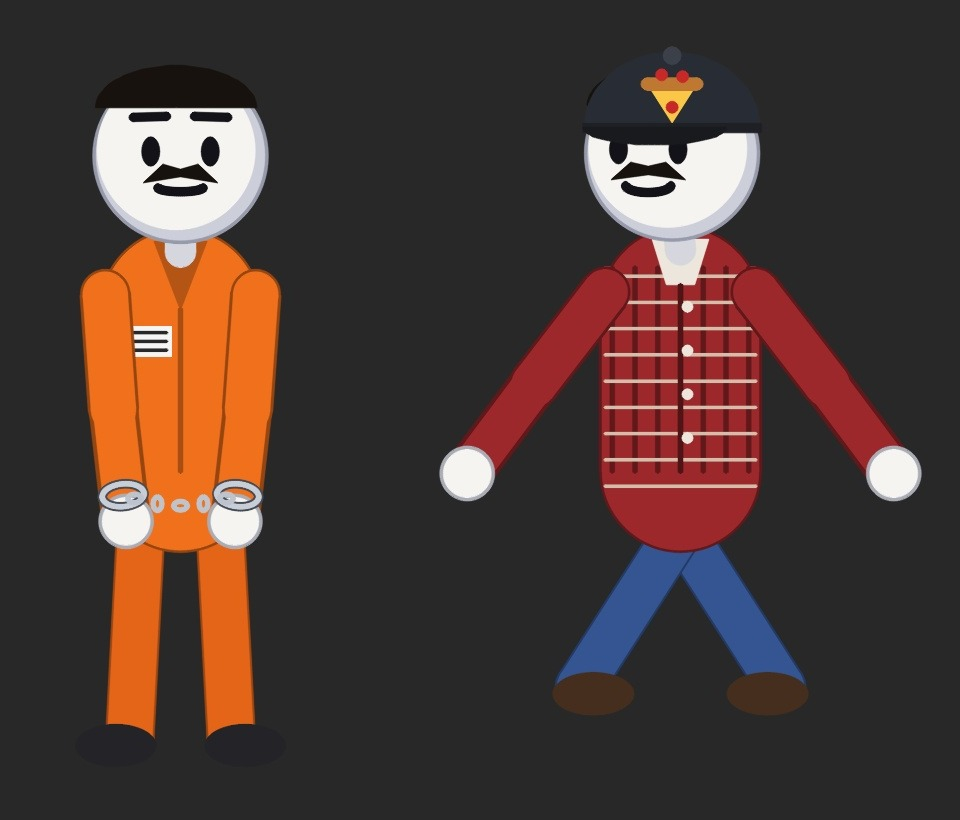
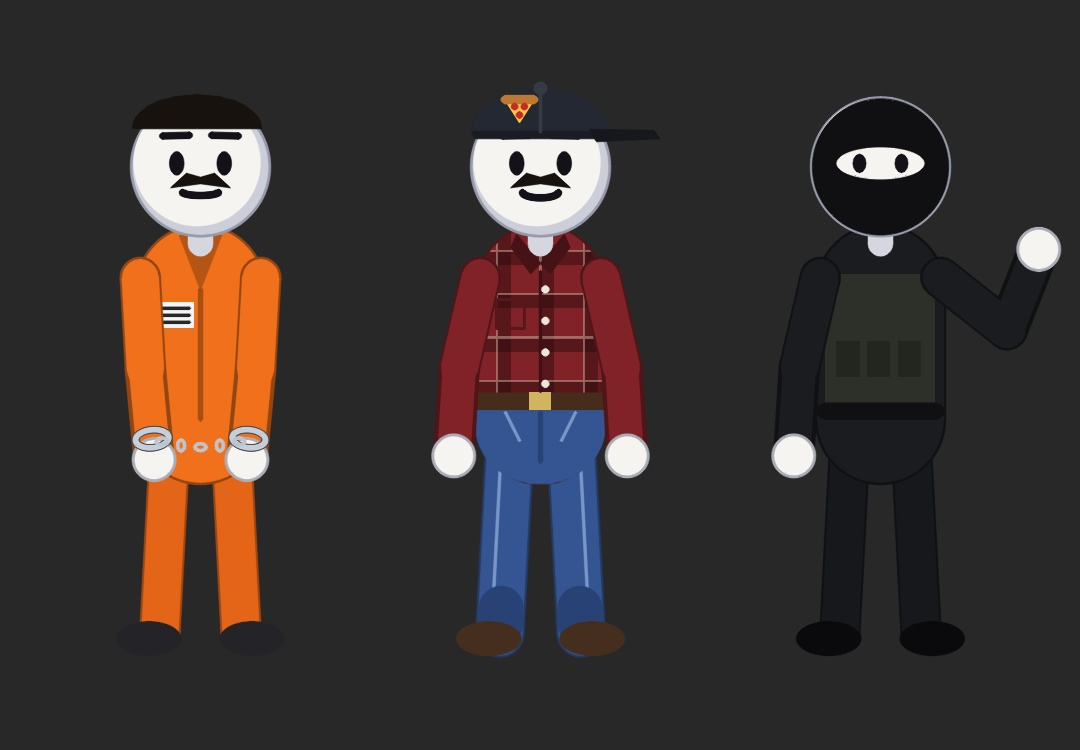
Chapo short: realistic rescue (roadblock, SUVs, comando), sideways cap, refined plaid shirt and jeans
Claude-Session: https://claude.ai/code/session_01WDrQiuAKGjVZNTyo2ws8iR

diff --git a/youtube-shorts/chapo/lib.py b/youtube-shorts/chapo/lib.py
@@ -198,11 +198,12 @@ OUTF = {'militar': dict(top=(92, 104, 64), pants=(72, 82, 52), shoe=(26, 26, 26)
         'bata': dict(top=(236, 239, 244), pants=(54, 58, 70), shoe=(20, 20, 24)),
         'elegante': dict(top=(40, 78, 178), pants=(24, 28, 48), shoe=(14, 14, 18)),
         'reo': dict(top=(240, 112, 28), pants=(228, 100, 24), shoe=(36, 36, 40)),
-        'civil': dict(top=(156, 40, 44), pants=(52, 84, 146), shoe=(70, 46, 30))}
+        'civil': dict(top=(128, 34, 40), pants=(52, 84, 146), shoe=(70, 46, 30)),
+        'comando': dict(top=(26, 28, 32), pants=(22, 24, 28), shoe=(10, 10, 12))}
 SKIN = (246, 244, 240)
 def dark(c, k=.6): return tuple(int(v * k) for v in c)
 
-def character(fr, kind, x, fy, hgt, t, armR=('reposo',), armL=('reposo',), look=(0., 0.), frown=.3, beret=False, smile=0., sash=False, mustache=False, run=0., cuffs=False, cap=False):
+def character(fr, kind, x, fy, hgt, t, armR=('reposo',), armL=('reposo',), look=(0., 0.), frown=.3, beret=False, smile=0., sash=False, mustache=False, run=0., cuffs=False, cap=False, mask=False):
     hands = {}
     u = hgt / 8.; o = OUTF[kind]; br = math.sin(t * 2.2) * u * .05
     hipy = fy - 3.3 * u; shy = fy - 5.75 * u + br
@@ -210,10 +211,21 @@ def character(fr, kind, x, fy, hgt, t, armR=('reposo',), armL=('reposo',), look=
     lw = u * .5
     for sd in (-1, 1):
         hp = A(x + sd * .42 * u, hipy); ft = A(x + sd * .58 * u, fy - .25 * u)
-        if run:
-            ang = math.sin(t * run + (sd > 0) * math.pi) * .55; L_ = 3.05 * u
-            ft = hp + A(math.sin(ang) * L_, math.cos(ang) * L_ - abs(math.sin(ang)) * .3 * u)
-        line(fr, hp, ft, dark(o['pants'], .7), lw + 4); line(fr, hp, ft, o['pants'], lw)
+        pc_ = o['pants']; lwp = lw * (1.25 if kind == 'civil' else 1.)
+        if run:  # pierna en dos tramos: muslo y espinilla, la rodilla se dobla al correr
+            ph_ = t * run + (sd > 0) * math.pi; th = math.sin(ph_) * .6; bend = max(0., -math.cos(ph_)) * 1.1 + .15
+            dirn = -1 if look[0] < 0 else 1; kn_ = hp + A(math.sin(th), math.cos(th)) * 1.55 * u; sa = th - bend * dirn
+            ft = kn_ + A(math.sin(sa), math.cos(sa)) * 1.55 * u
+            segs = [(hp, kn_), (kn_, ft)]
+        else:
+            kn_ = (hp + ft) / 2; segs = [(hp, ft)]
+        for a_, b_ in segs: line(fr, a_, b_, dark(pc_, .7), lwp + 4)
+        for a_, b_ in segs: line(fr, a_, b_, pc_, lwp)
+        if run: circ(fr, kn_, lwp / 2, pc_)
+        if kind == 'civil':  # mezclilla: costura clara y bastilla doblada
+            for a_, b_ in segs: line(fr, A(*a_) + A(sd * .12 * u, 0), A(*b_) + A(sd * .12 * u, 0), (120, 150, 200), 2)
+            dv = A(*segs[-1][1]) - A(*segs[-1][0]); dv /= max(1e-6, np.linalg.norm(dv)); hb = A(*ft) - dv * .35 * u
+            line(fr, hb, A(*ft) - dv * .12 * u, (40, 66, 118), lwp)
         cv2.ellipse(fr, P8(ft + A(sd * .16 * u, .08 * u)), (int(.46 * u * 8), int(.24 * u * 8)), 0, 0, 360, o['shoe'], -1, cv2.LINE_AA, 3)
     top = o['top']; ta = A(x, shy + .55 * u); tb = A(x, hipy)
     if kind == 'bata':
@@ -250,12 +262,35 @@ def character(fr, kind, x, fy, hgt, t, armR=('reposo',), armL=('reposo',), look=
         for k in range(3): line(fr, (x - .56 * u, shy + (.82 + k * .1) * u), (x - .16 * u, shy + (.82 + k * .1) * u), (40, 40, 40), 2)
         line(fr, (x, shy + .55 * u), (x, hipy), dark(top, .7), 3)
     elif kind == 'civil':
-        cv2.rectangle(fr, (int(x - .86 * u), int(shy + .1 * u)), (int(x + .86 * u), int(hipy)), top, -1)
-        for k in range(-3, 4): line(fr, (x + k * .26 * u, shy + .1 * u), (x + k * .26 * u, hipy), dark(top, .62), 3)
-        for k in range(0, 9): line(fr, (x - .86 * u, shy + (.2 + k * .3) * u), (x + .86 * u, shy + (.2 + k * .3) * u), (210, 190, 170), 2)
-        poly(fr, [(x - .32 * u, shy - .22 * u), (x + .32 * u, shy - .22 * u), (x + .16 * u, shy + .3 * u), (x - .16 * u, shy + .3 * u)], (236, 230, 220))
-        line(fr, (x, shy + .3 * u), (x, hipy), dark(top, .5), 3)
-        for i in range(4): circ(fr, (x + .08 * u, shy + (.55 + i * .5) * u), .06 * u, (236, 230, 220))
+        x0_, y0_ = int(x - 1.1 * u), int(shy - .6 * u); x1_, y1_ = int(x + 1.1 * u), int(hipy + 1.2 * u)
+        x0_, y0_ = max(0, x0_), max(0, y0_); x1_, y1_ = min(fr.shape[1], x1_), min(fr.shape[0], y1_)
+        if x1_ > x0_ and y1_ > y0_:
+            mk = np.zeros((y1_ - y0_, x1_ - x0_), np.uint8)
+            cv2.line(mk, (int(ta[0] - x0_), int(ta[1] - y0_)), (int(tb[0] - x0_), int(tb[1] - y0_)), 255, max(1, int(1.78 * u)), cv2.LINE_AA)
+            m_ = (mk.astype(np.float32) / 255.)[:, :, None]
+            yy_, xx_ = np.mgrid[y0_:y1_, x0_:x1_].astype(np.float32); per = .62 * u
+            band = ((((xx_ - x) % per) < .2 * u) | (((yy_ - shy) % per) < .2 * u)).astype(np.float32)
+            both = ((((xx_ - x) % per) < .2 * u) & (((yy_ - shy) % per) < .2 * u)).astype(np.float32)
+            thin = ((np.abs(((xx_ - x + per * .5) % per) - per * .5) < 1.2) | (np.abs(((yy_ - shy + per * .5) % per) - per * .5) < 1.2)).astype(np.float32)
+            pat = np.ones_like(xx_)[:, :, None] * np.array(top, np.float32)
+            pat = pat * (1 - .32 * band[:, :, None]) * (1 - .25 * both[:, :, None])
+            pat = pat * (1 - .45 * thin[:, :, None]) + np.array([214, 196, 168], np.float32) * .45 * thin[:, :, None]
+            roi = fr[y0_:y1_, x0_:x1_].astype(np.float32); fr[y0_:y1_, x0_:x1_] = to8(roi * (1 - m_) + pat * m_)
+        poly(fr, [(x - .34 * u, shy - .24 * u), (x, shy + .18 * u), (x - .14 * u, shy + .32 * u), (x - .42 * u, shy - .05 * u)], dark(top, .55))   # cuello
+        poly(fr, [(x + .34 * u, shy - .24 * u), (x, shy + .18 * u), (x + .14 * u, shy + .32 * u), (x + .42 * u, shy - .05 * u)], dark(top, .55))
+        cv2.rectangle(fr, (int(x - .62 * u), int(shy + .7 * u)), (int(x - .22 * u), int(shy + 1.12 * u)), dark(top, .7), 2)        # bolsillo
+        cv2.ellipse(fr, P8((x, hipy + .1 * u)), (int(.92 * u * 8), int(.82 * u * 8)), 0, 0, 180, (52, 84, 146), -1, cv2.LINE_AA, 3)
+        poly(fr, [(x - .92 * u, hipy - .3 * u), (x + .92 * u, hipy - .3 * u), (x + .92 * u, hipy + .12 * u), (x - .92 * u, hipy + .12 * u)], (52, 84, 146))
+        line(fr, (x, hipy - .1 * u), (x, hipy + .6 * u), (40, 66, 118), 3)
+        for sd2 in (-1, 1): line(fr, (x + sd2 * .5 * u, hipy - .1 * u), (x + sd2 * .3 * u, hipy + .3 * u), (120, 150, 200), 2)
+        line(fr, (x - .92 * u, hipy - .26 * u), (x + .92 * u, hipy - .26 * u), (70, 44, 26), .22 * u)
+        cv2.rectangle(fr, (int(x - .15 * u), int(hipy - .38 * u)), (int(x + .15 * u), int(hipy - .14 * u)), (210, 180, 96), -1)
+        line(fr, (x, shy + .3 * u), (x, hipy - .4 * u), dark(top, .5), 2)
+        for i in range(4): circ(fr, (x + .07 * u, shy + (.55 + i * .45) * u), .05 * u, (236, 230, 220))
+    elif kind == 'comando':
+        cv2.rectangle(fr, (int(x - .78 * u), int(shy + .35 * u)), (int(x + .78 * u), int(hipy - .2 * u)), (44, 48, 40), -1)      # chaleco
+        for k in range(3): cv2.rectangle(fr, (int(x - .62 * u + k * .44 * u), int(shy + 1.3 * u)), (int(x - .3 * u + k * .44 * u), int(shy + 1.8 * u)), (34, 38, 30), -1)
+        line(fr, (x - .8 * u, hipy - .12 * u), (x + .8 * u, hipy - .12 * u), (16, 16, 18), .22 * u)
     elif kind == 'elegante':
         poly(fr, [(x - .3 * u, shy - .22 * u), (x + .3 * u, shy - .22 * u), (x, shy + .7 * u)], (240, 240, 244))
         line(fr, (x, shy + .7 * u), (x, hipy + .2 * u), (232, 190, 80), 3)
@@ -298,17 +333,21 @@ def character(fr, kind, x, fy, hgt, t, armR=('reposo',), armL=('reposo',), look=
         mc = fc + A(0, .2 * u)
         poly(fr, [(mc[0] - .42 * u, mc[1] + .1 * u), (mc[0] - .2 * u, mc[1] - .1 * u), (mc[0], mc[1] - .05 * u), (mc[0] + .2 * u, mc[1] - .1 * u), (mc[0] + .42 * u, mc[1] + .1 * u), (mc[0], mc[1] + .04 * u)], (24, 18, 14))
         cv2.ellipse(fr, P8(head + A(-.05 * u, -.55 * u)), (int(.92 * u * 8), int(.48 * u * 8)), 0, 180, 360, (24, 18, 14), -1, cv2.LINE_AA, 3)
-    if cap:  # gorra con una pizza pequeña al centro
-        cc_ = (40, 44, 52)
-        cv2.ellipse(fr, P8(head + A(0, -.3 * u)), (int(1.0 * u * 8), int(.86 * u * 8)), 0, 180, 360, cc_, -1, cv2.LINE_AA, 3)
-        poly(fr, [(head[0] - 1.02 * u, head[1] - .34 * u), (head[0] + 1.02 * u, head[1] - .34 * u), (head[0] + 1.02 * u, head[1] - .24 * u), (head[0] - 1.02 * u, head[1] - .24 * u)], (30, 32, 38))
-        bd = 1 if look[0] >= 0 else -1
-        cv2.ellipse(fr, P8(head + A(bd * .2 * u, -.3 * u)), (int(.82 * u * 8), int(.2 * u * 8)), 0, 0, 180, (24, 26, 30), -1, cv2.LINE_AA, 3)
-        circ(fr, head + A(0, -1.12 * u), .1 * u, (60, 64, 72))
-        pc = head + A(0, -.58 * u); r_ = .27 * u
-        poly(fr, [(pc[0] - r_, pc[1] - r_ * .75), (pc[0] + r_, pc[1] - r_ * .75), (pc[0], pc[1] + r_ * .85)], (250, 200, 70))       # queso
-        line(fr, (pc[0] - r_ * 1.05, pc[1] - r_ * .8), (pc[0] + r_ * 1.05, pc[1] - r_ * .8), (190, 120, 50), .14 * u)                  # orilla
-        for (ox, oy) in [(-.12, -.32), (.12, -.3), (0, .05)]: circ(fr, pc + A(ox * u, oy * u), .065 * u, (200, 40, 40))           # pepperoni
+    if cap:  # gorra de béisbol puesta de lado (visera hacia la derecha), arriba de las cejas
+        cc_ = (36, 40, 50); cy_ = head[1] - .5 * u
+        cv2.ellipse(fr, P8((head[0], cy_)), (int(.98 * u * 8), int(.62 * u * 8)), 0, 180, 360, cc_, -1, cv2.LINE_AA, 3)
+        poly(fr, [(head[0] - .98 * u, cy_), (head[0] + .98 * u, cy_), (head[0] + .94 * u, cy_ + .1 * u), (head[0] - .94 * u, cy_ + .1 * u)], (26, 28, 36))
+        poly(fr, [(head[0] + .7 * u, cy_ - .04 * u), (head[0] + 1.62 * u, cy_ - .02 * u), (head[0] + 1.7 * u, cy_ + .1 * u), (head[0] + .8 * u, cy_ + .14 * u)], (22, 24, 30))  # visera de lado
+        line(fr, (head[0], cy_ - .6 * u), (head[0], cy_), (54, 58, 68), 2)
+        circ(fr, (head[0], cy_ - .62 * u), .09 * u, (54, 58, 68))
+        pc = A(head[0] - .3 * u, cy_ - .3 * u); r_ = .2 * u
+        poly(fr, [(pc[0] - r_, pc[1] - r_ * .75), (pc[0] + r_, pc[1] - r_ * .75), (pc[0], pc[1] + r_ * .85)], (250, 200, 70))       # pizza
+        line(fr, (pc[0] - r_ * 1.05, pc[1] - r_ * .8), (pc[0] + r_ * 1.05, pc[1] - r_ * .8), (190, 120, 50), .1 * u)
+        for (ox, oy) in [(-.07, -.06), (.07, -.06), (0, .06)]: circ(fr, pc + A(ox * u, oy * u), .045 * u, (200, 40, 40))
+    if mask:  # pasamontañas negro con abertura en los ojos
+        circ(fr, head, .97 * u, (16, 16, 18))
+        cv2.ellipse(fr, P8(fc + A(0, -.05 * u)), (int(.62 * u * 8), int(.22 * u * 8)), 0, 0, 360, SKIN, -1, cv2.LINE_AA, 3)
+        for sd in (-1, 1): cv2.ellipse(fr, P8(fc + A(sd * .3 * u, -.05 * u)), (int(.09 * u * 8), int(.13 * u * 8)), 0, 0, 360, (18, 18, 24), -1, cv2.LINE_AA, 3)
     if beret:
         cv2.ellipse(fr, P8(head + A(-.1 * u, -.74 * u)), (int(1.08 * u * 8), int(.44 * u * 8)), -12, 0, 360, (40, 66, 44), -1, cv2.LINE_AA, 3)
         cv2.ellipse(fr, P8(head + A(.05 * u, -.52 * u)), (int(.98 * u * 8), int(.16 * u * 8)), -6, 0, 360, (26, 44, 30), -1, cv2.LINE_AA, 3)

diff --git a/youtube-shorts/chapo/chapo.py b/youtube-shorts/chapo/chapo.py
@@ -15,8 +15,8 @@ SUBS = [
  (16.55, 19.40, 1500, "obligaría a *Washington* a revisar su caso."), (19.75, 21.60, 1500, "Las cortes *estallarían*"), (21.60, 23.90, 1500, "en un debate *sin precedentes*."),
  (24.30, 25.70, 1440, "Segundo…"), (25.72, 27.50, 1440, "el *caos penitenciario*."), (27.60, 29.20, 1440, "¿Dónde lo *meterían*?"),
  (29.35, 31.00, 1440, "*El Altiplano* o *Puente Grande*"), (31.00, 33.40, 1440, "revivirían los *fantasmas* de sus fugas."), (33.55, 36.80, 1440, "La *alerta roja* se activaría al instante."),
- (37.40, 38.95, 1480, "Tercero…"), (39.00, 40.70, 1480, "el *gran escape*."), (40.90, 43.00, 1480, "En un traslado *nocturno*,"), (43.00, 44.40, 1480, "la *seguridad se rompe*…"),
- (44.40, 45.75, 1480, "y *desaparece de nuevo*,"), (45.78, 47.40, 1480, "con su ropa de siempre:"), (47.40, 49.90, 1480, "*camisa sencilla* y *vaqueros*."),
+ (37.40, 38.95, 960, "Tercero…"), (39.00, 40.70, 960, "el *gran escape*."), (40.90, 43.00, 960, "En un traslado *nocturno*,"), (43.00, 44.40, 960, "la *seguridad se rompe*…"),
+ (44.40, 45.75, 960, "y *desaparece de nuevo*,"), (45.78, 47.40, 960, "con su ropa de siempre:"), (47.40, 49.90, 960, "*camisa sencilla* y *vaqueros*."),
  (50.40, 53.60, 1480, "Una *pesadilla diplomática* para dos naciones…"), (53.70, 56.30, 1480, "¿Volvería a mandar desde las *sombras*?"),
  (56.40, 58.40, 1480, "¡*Dale like* y *sígueme*"), (58.40, 61.00, 1480, "para más historias!"),
 ]
@@ -24,7 +24,7 @@ EMOJIS = [
  (2.6, 4.6, '🇲🇽', 860, 900, 150, 'pop'), (7.3, 9.6, '⚠', 200, 900, 150, 'late'),
  (14.4, 17.0, '📄', 860, 1180, 140, 'sacude'), (19.8, 23.8, '⚖', 200, 1180, 150, 'flota'),
  (25.8, 28.2, '🏛', 880, 1250, 140, 'pop'), (33.7, 36.8, '🚨', 200, 1250, 150, 'late'),
- (43.3, 45.6, '🔥', 860, 1250, 150, 'late'), (44.6, 47.3, '🏃', 200, 1250, 150, 'cae'),
+ (43.3, 45.6, '🔥', 880, 760, 150, 'late'), (44.6, 47.3, '🏃', 200, 760, 150, 'cae'),
  (53.8, 61, '💬', 180, 380, 140, 'late'), (56.5, 61, '👍', 540, 300, 150, 'pop'), (57.7, 61, '🔔', 900, 380, 140, 'sacude'),
 ]
 
@@ -220,28 +220,82 @@ class C4:
         s.puff = glow_sprite(140, (110, 96, 90)); s.flame = glow_sprite(90, (255, 150, 50))
         s.stamp = N.stamp('LIBRE', (255, 59, 42), w=480, px=110)
         s.dust = Dust(40, (40, 300, 1040, 1600), (255, 170, 90), 4, .5)
+    def suv(s, fr, x, y, sc, t, door=0., lights=True):
+        # camioneta negra (vista lateral, frente a la derecha)
+        w, h = 420 * sc, 150 * sc
+        if lights:
+            lay = np.zeros((H // 4, W // 4, 3), np.float32); hx, hy = (x + w) / 4, (y - h * .45) / 4
+            cv2.fillPoly(lay, [np.array([(hx, hy), (hx + 260 * sc, hy - 40 * sc), (hx + 260 * sc, hy + 50 * sc)], np.int32)], (255, 240, 200))
+            fr[:] = np.clip(fr + cv2.resize(cv2.GaussianBlur(lay, (0, 0), 5), (W, H)) * .35, 0, 255).astype(np.uint8)
+        poly(fr, [(x, y - h * .25), (x + w * .06, y - h), (x + w * .72, y - h), (x + w * .86, y - h * .62), (x + w, y - h * .55), (x + w, y - h * .05), (x, y - h * .05)], (16, 17, 20))
+        poly(fr, [(x + w * .1, y - h * .92), (x + w * .38, y - h * .92), (x + w * .38, y - h * .62), (x + w * .1, y - h * .62)], (40, 56, 72))
+        poly(fr, [(x + w * .42, y - h * .92), (x + w * .68, y - h * .92), (x + w * .8, y - h * .62), (x + w * .42, y - h * .62)], (40, 56, 72))
+        line(fr, (x + w * .02, y - h * .4), (x + w, y - h * .4), (44, 46, 52), 3)
+        if door > 0:  # puerta trasera abierta
+            dx_ = door * w * .22
+            poly(fr, [(x + w * .4, y - h * .92), (x + w * .4 - dx_, y - h * 1.0), (x + w * .4 - dx_, y - h * .12), (x + w * .4, y - h * .05)], (30, 32, 36))
+            poly(fr, [(x + w * .2, y - h * .9), (x + w * .4, y - h * .9), (x + w * .4, y - h * .1), (x + w * .2, y - h * .1)], (6, 6, 8))
+        for wx in (x + w * .2, x + w * .8):
+            circ(fr, (wx, y), 46 * sc, (8, 8, 10)); circ(fr, (wx, y), 22 * sc, (90, 94, 100))
+        blit(fr, glow_sprite(40, (255, 240, 200)), x + w, y - h * .45, .9 if lights else 0, sc, add=True)
+        blit(fr, glow_sprite(30, (255, 30, 20)), x + 4, y - h * .45, .8, sc, add=True)
+    def truck_fire(s, fr, t, k):
+        # narcobloqueo: tráiler atravesado e incendiado cerrando la carretera
+        x, y = 560, 1235
+        poly(fr, [(x - 330, y), (x - 330, y - 120), (x + 140, y - 120), (x + 140, y)], (34, 28, 28))
+        poly(fr, [(x + 150, y), (x + 150, y - 100), (x + 230, y - 100), (x + 270, y - 60), (x + 270, y)], (30, 26, 26))
+        for wx in (x - 280, x - 200, x + 80, x + 210): circ(fr, (wx, y), 26, (10, 10, 12))
+        for i in range(7):
+            fl = .7 + .3 * math.sin(t * 13 + i * 1.7)
+            blit(fr, s.flame, x - 300 + i * 70, y - 110, k * fl, 1.0 + .5 * fl, add=True)
+        for i in range(10):
+            f = (i / 10. + t * .07) % 1; blit(fr, s.puff, x - 250 + (i % 5) * 110 + f * 120, y - 120 - f * 700, k * min(1, f * 5) * (1 - f) * .55, 1 + f * 2.6)
     def draw(s, fr, t, d):
-        for i in range(18):
-            f = (i / 18. + t * .05) % 1; blit(fr, s.puff, 300 + (i % 3) * 220 + f * 160, 1080 - f * 800, min(1, f * 5) * (1 - f) * .4, .9 + f * 2.4)
+        for i in range(12):
+            f = (i / 12. + t * .05) % 1; blit(fr, s.puff, 300 + (i % 3) * 220 + f * 160, 1080 - f * 800, min(1, f * 5) * (1 - f) * .3, .9 + f * 2.4)
         on = (t * 2.5) % 1 < .5
         for i, (x, y) in enumerate(s.lights): blit(fr, glow_sprite(70, (255, 40, 40) if on ^ (i % 2) else (40, 90, 255)), x, y, .9, add=True)
-        brk = ss(6.0, 6.4, t)
-        if brk > 0 and t < 8: blit(fr, s.flame, 600, 1150, brk * (1 - ss(6.6, 8, t)), 2.4, add=True)
+        T1, T2, T3, T4, T5, TC = 3.6, 4.6, 6.2, 7.3, 8.0, d - 2.6   # bloqueo · llegan camionetas · corre · sube · arrancan · ropa nueva
+        kb = ss(T1, T1 + .5, t)
+        if kb > 0 and t < TC: s.truck_fire(fr, t, kb)
+        if T1 <= t < T1 + .4: fr[:] = np.clip(fr.astype(np.float32) + 90 * (1 - (t - T1) / .4), 0, 255).astype(np.uint8)   # destello
         s.dust.draw(fr, t)
-        if t < 6.3:   # traslado: con uniforme y esposas
-            cv2.ellipse(fr, (560, 1494), (150, 20), 0, 0, 360, (16, 12, 10), -1, cv2.LINE_AA)
-            character(fr, 'reo', 560, 1490, 440, t, armR=('apunta', (600, 1290), .75), armL=('apunta', (520, 1290), .75), look=(-.6, -.1), frown=-.2, mustache=True, cuffs=True)
-        else:         # escape: camisa a cuadros y vaqueros, corriendo hacia la oscuridad
-            u = ss(6.3, 12.5, t); x = lerp(620, 180, u); sc = lerp(1, .62, u); fy = lerp(1500, 1250, u)
+        # tres camionetas negras llegan desde la izquierda, se detienen y luego arrancan juntas
+        if T2 <= t < T5 + 1.8:
+            for j, (stop, yy, sc) in enumerate([(30, 1450, 1.1), (-330, 1380, .85), (-610, 1330, .7)][::-1]):
+                tin = T2 + (2 - j) * .25
+                xin = lerp(-900, stop, eOut((t - tin) / 1.0)) if t >= tin else -2000
+                xout = lerp(0, 1800, ss(T5, T5 + 1.6, t) ** 2)
+                door = ss(T2 + 1.2, T2 + 1.5, t) * (1 - ss(T4 - .2, T4 + .2, t)) if j == 2 else 0
+                s.suv(fr, xin + xout, yy, sc, t, door)
+            # comando encapuchado junto a la puerta
+            if T2 + 1.3 <= t < T4 + .1:
+                kk = ss(T2 + 1.3, T2 + 1.7, t); cx_ = lerp(-100, 120, kk)
+                character(fr, 'comando', cx_, 1520, 420, t, armR=('palma',), armL=('reposo',), look=(.6, 0), frown=.3, mask=True)
+        # guardias federales: se sorprenden y retroceden con las manos arriba
+        if t < T5 + 1.8:
+            up = ss(T2 + 1.0, T2 + 1.5, t); back = ss(T2 + 1.0, T3, t)
+            for gx, side in ((780, 1), (960, 1)):
+                pose = ('palma',) if up > .5 else ('reposo',)
+                character(fr, 'militar', gx + back * 70 * side, 1530, 430, t, armR=pose, armL=pose, look=(-.5 * ss(T1, T1 + .4, t), 0), frown=.2 + .5 * ss(T1, T1 + .4, t), beret=True)
+        if t < T4:   # el reo: escoltado, luego corre hacia la camioneta
+            run_k = ss(T3, T4 - .1, t); x = lerp(600, 260, run_k)
+            cv2.ellipse(fr, (int(x), 1534), (150, 20), 0, 0, 360, (16, 12, 10), -1, cv2.LINE_AA)
+            kw = dict(armR=('apunta', (x + 40, 1330), .75), armL=('apunta', (x - 40, 1330), .75), frown=-.2, mustache=True, cuffs=True)
+            if run_k <= 0: character(fr, 'reo', x, 1530, 440, t, look=(-.6 * ss(T1, T1 + .4, t), -.1), **kw)
+            else: character(fr, 'reo', x, 1530, 440, t, look=(-.8, 0), run=12, **kw)
+        if t >= TC:  # casi al final: libre, con su ropa de siempre y gorra, se aleja por la carretera
+            u = ss(TC, d, t); x = lerp(560, 470, u); sc = lerp(.95, .55, u); fy = lerp(1540, 1240, u)
+            op = ss(TC, TC + .35, t)
+            if op < 1: fr[:] = (fr * (.35 + .65 * op)).astype(np.uint8)
             cv2.ellipse(fr, (int(x), int(fy + 4)), (int(130 * sc), int(18 * sc)), 0, 0, 360, (16, 12, 10), -1, cv2.LINE_AA)
-            sw = math.sin(t * 11)
-            character(fr, 'civil', x, fy, 440 * sc, t, armR=('apunta', (x + 260 * sw, fy - 330 * sc), .9), armL=('apunta', (x - 260 * sw, fy - 330 * sc), .9),
-                      look=(-.8, 0), frown=-.3, smile=.5, mustache=True, run=11, cap=True)
-            if u > .7: fr[:] = fr  # se pierde en la oscuridad (lo da la viñeta y la bruma)
-        k = ss(8.6, 8.9, t)
+            sw = math.sin(t * 6)
+            character(fr, 'civil', x, fy, 460 * sc, t, armR=('apunta', (x + 200 * sw, fy - 250 * sc), .9), armL=('apunta', (x - 200 * sw, fy - 250 * sc), .9),
+                      look=(.4, -.1), frown=-.3, smile=.6, mustache=True, run=6, cap=True)
+        k = ss(TC + .6, TC + .9, t)
         if k > 0: blit(fr, s.stamp, 540, 560, k, lerp(1.6, 1., eOut(k)))
     def cam(s, t, d):
-        k = eIO(t / d); return lerp(1.05, 1.14, k), 540, 1150, lerp(60, -80, ss(6, d, t)), 0
+        k = eIO(t / d); return lerp(1.05, 1.12, k), 540, 1200, lerp(50, -50, k), 0
 
 # ================================================================ 5 · Cierre: globo, balanza agrietada, narrador
 class C5(D.S5D):
